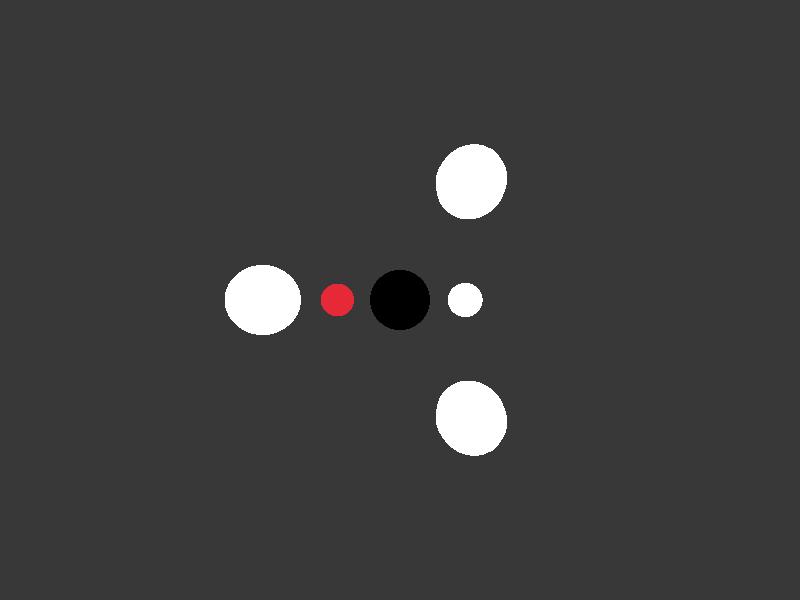
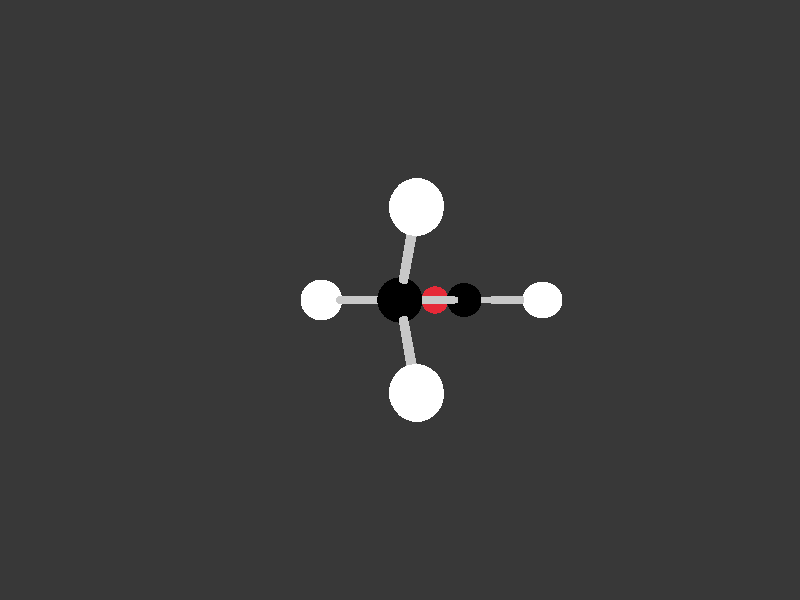
add bonds

Changed region(s): [[0.2812, 0.24, 0.7188, 0.78]]

diff --git a/src/main.rs b/src/main.rs
@@ -1,7 +1,7 @@
 use std::{error::Error, fs::read_to_string, path::Path, str::FromStr};
 
 use donkey::{colors::color, keys::Key, vector3, Window};
-use raylib_sys::Camera3D;
+use raylib_sys::{Camera3D, Vector3};
 
 const NATOMS: usize = 13;
 
@@ -36,6 +36,12 @@ struct Atom {
     w: u8,
 }
 
+impl Atom {
+    fn as_vec(&self) -> Vector3 {
+        vector3!(self.x, self.y, self.z)
+    }
+}
+
 impl FromStr for Atom {
     type Err = Box<dyn Error>;
 
@@ -56,6 +62,7 @@ impl FromStr for Atom {
 
 struct Molecule {
     atoms: Vec<Atom>,
+    bonds: Vec<(usize, usize)>,
 }
 
 fn load_xyz(path: impl AsRef<Path>) -> Molecule {
@@ -69,7 +76,22 @@ fn load_xyz(path: impl AsRef<Path>) -> Molecule {
         }
         atoms.push(line.parse().unwrap());
     }
-    Molecule { atoms }
+
+    let mut bonds = Vec::new();
+    for i in 0..atoms.len() {
+        for j in i + 1..atoms.len() {
+            let Atom { x: xi, y: yi, z: zi, .. } = atoms[i];
+            let Atom { x: xj, y: yj, z: zj, .. } = atoms[j];
+            let dist =
+                ((xi - xj).powi(2) + (yi - yj).powi(2) + (zi - zj).powi(2))
+                    .sqrt();
+            if dist < 3.0 {
+                bonds.push((i, j));
+            }
+        }
+    }
+
+    Molecule { atoms, bonds }
 }
 
 fn make_window() -> Window {
@@ -115,11 +137,21 @@ fn main() {
         win.begin_mode3d(camera);
         for atom in &mol.atoms {
             win.draw_sphere(
-                vector3!(atom.x, atom.y, atom.z),
+                atom.as_vec(),
                 RADII[atom.w as usize] / 2.0,
                 COLORS[atom.w as usize],
             );
         }
+
+        for (i, j) in &mol.bonds {
+            win.draw_cylinder(
+                mol.atoms[*i].as_vec(),
+                mol.atoms[*j].as_vec(),
+                0.1,
+                donkey::colors::LIGHTGRAY,
+            );
+        }
+
         win.end_mode3d();
         win.end_drawing();
     }
